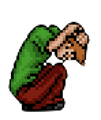
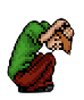
changed scaling for shaggy img, still looks bad until we get proper sprites.

diff --git a/src/sample/Main.java b/src/sample/Main.java
@@ -78,6 +78,11 @@ public class Main extends Application {
             case S:
                 SHAGGY.block();
                 SHAGGY.setBlocking(true);
+
+//                // just to fix image scaling (REMOVE AFTER SPRITES ARE SUBMITTED FROM CHARAN.)
+//                SHAGGY.setLayoutY(340);
+//                //
+
                 break;
 
 
@@ -120,6 +125,11 @@ public class Main extends Application {
                     SHAGGY.standRight();
                 }
                 SHAGGY.setBlocking(false);
+
+//                 ONLY FOR SPRITE IMAGE SCALING PROBLEM (REMOVE WHEN CHARAN SUBMITS SPRITES.)
+//                SHAGGY.setLayoutY(ground);
+
+
                 break;
 
             case D:
